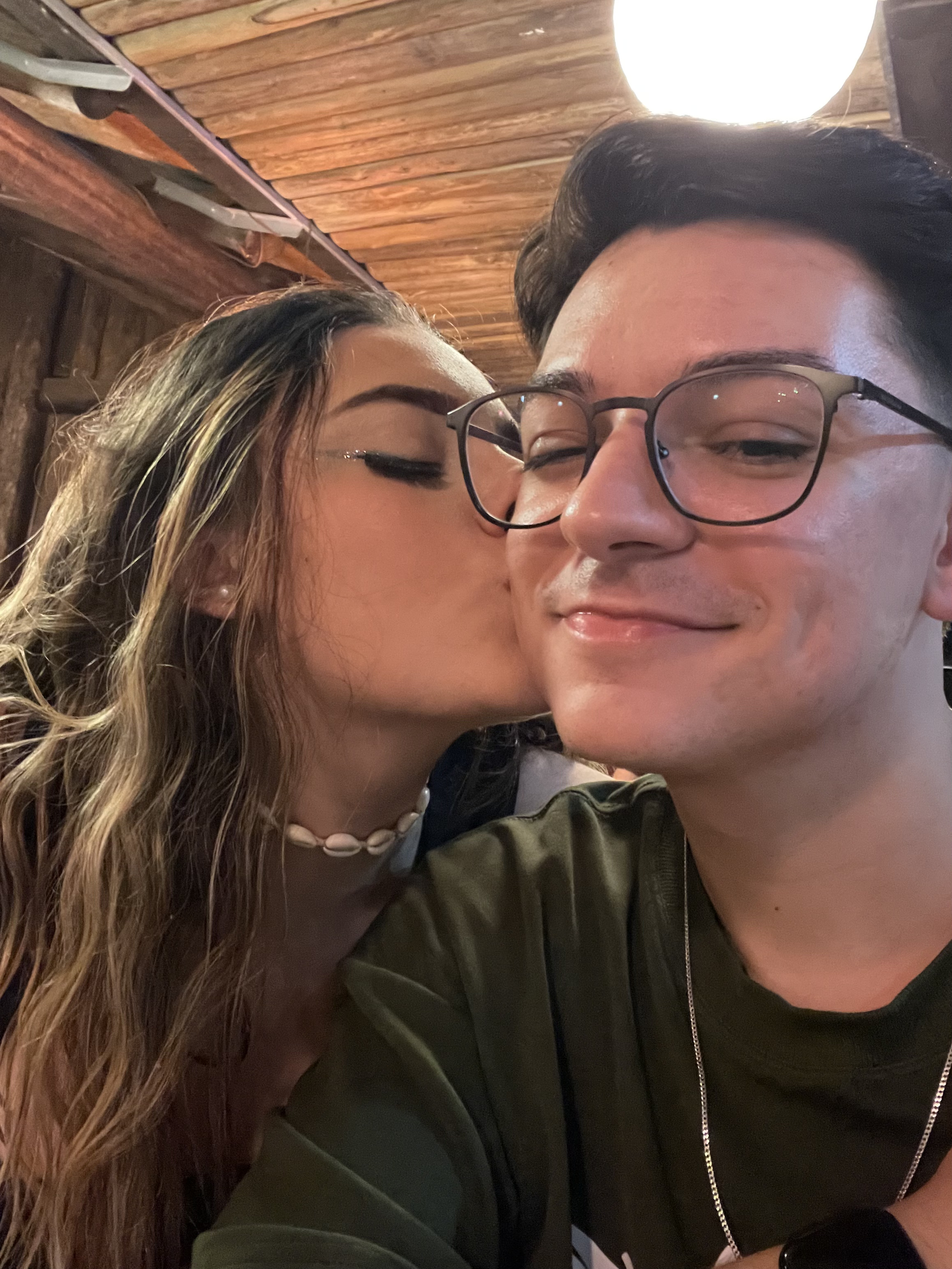
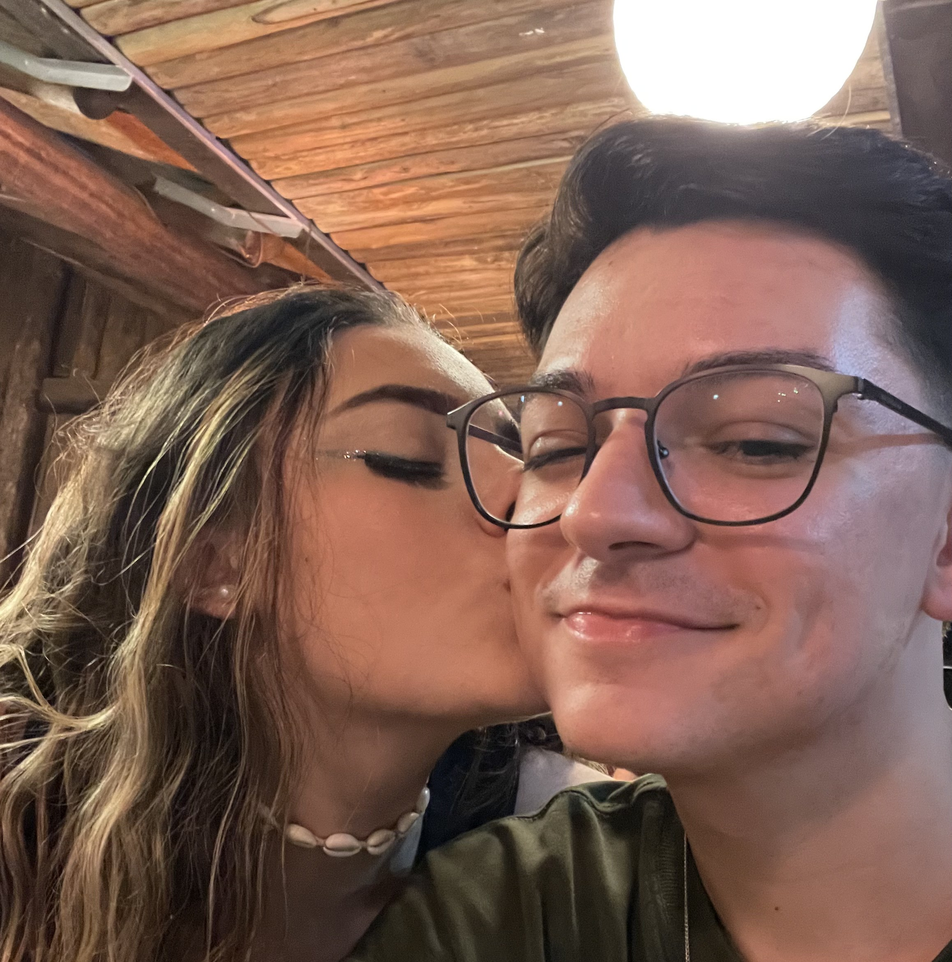
v1.3

diff --git a/script.js b/script.js
@@ -105,7 +105,7 @@ const relationshipData = {
       type: "video",
       title: "Montando Lego ao nascer do sol",
       description: "De uma surpresa que deu errado e virou um momento unico, cheio de risadas e carinho. Pois tudo com você fica melhor.",
-      src: "Images/lego.mov",
+      src: "Images/lego.MOV",
       size: "tall",
     },
     {
@@ -203,7 +203,7 @@ const relationshipData = {
       type: "image",
       title: "Nascer do sol em Torres",
       description: "Mais uma foto linda nossa ao nascer do sol em Torres.",
-      src: "Images/torres.jpg",
+      src: "Images/torres.JPG",
       size: "full",
     },
   ],

diff --git a/style.css b/style.css
@@ -618,7 +618,7 @@ body::before {
 
 .media-card.is-square {
     grid-column: span 4;
-    grid-row: span 5;
+    grid-row: span 7;
 }
 
 .media-card.is-wide-lg {
